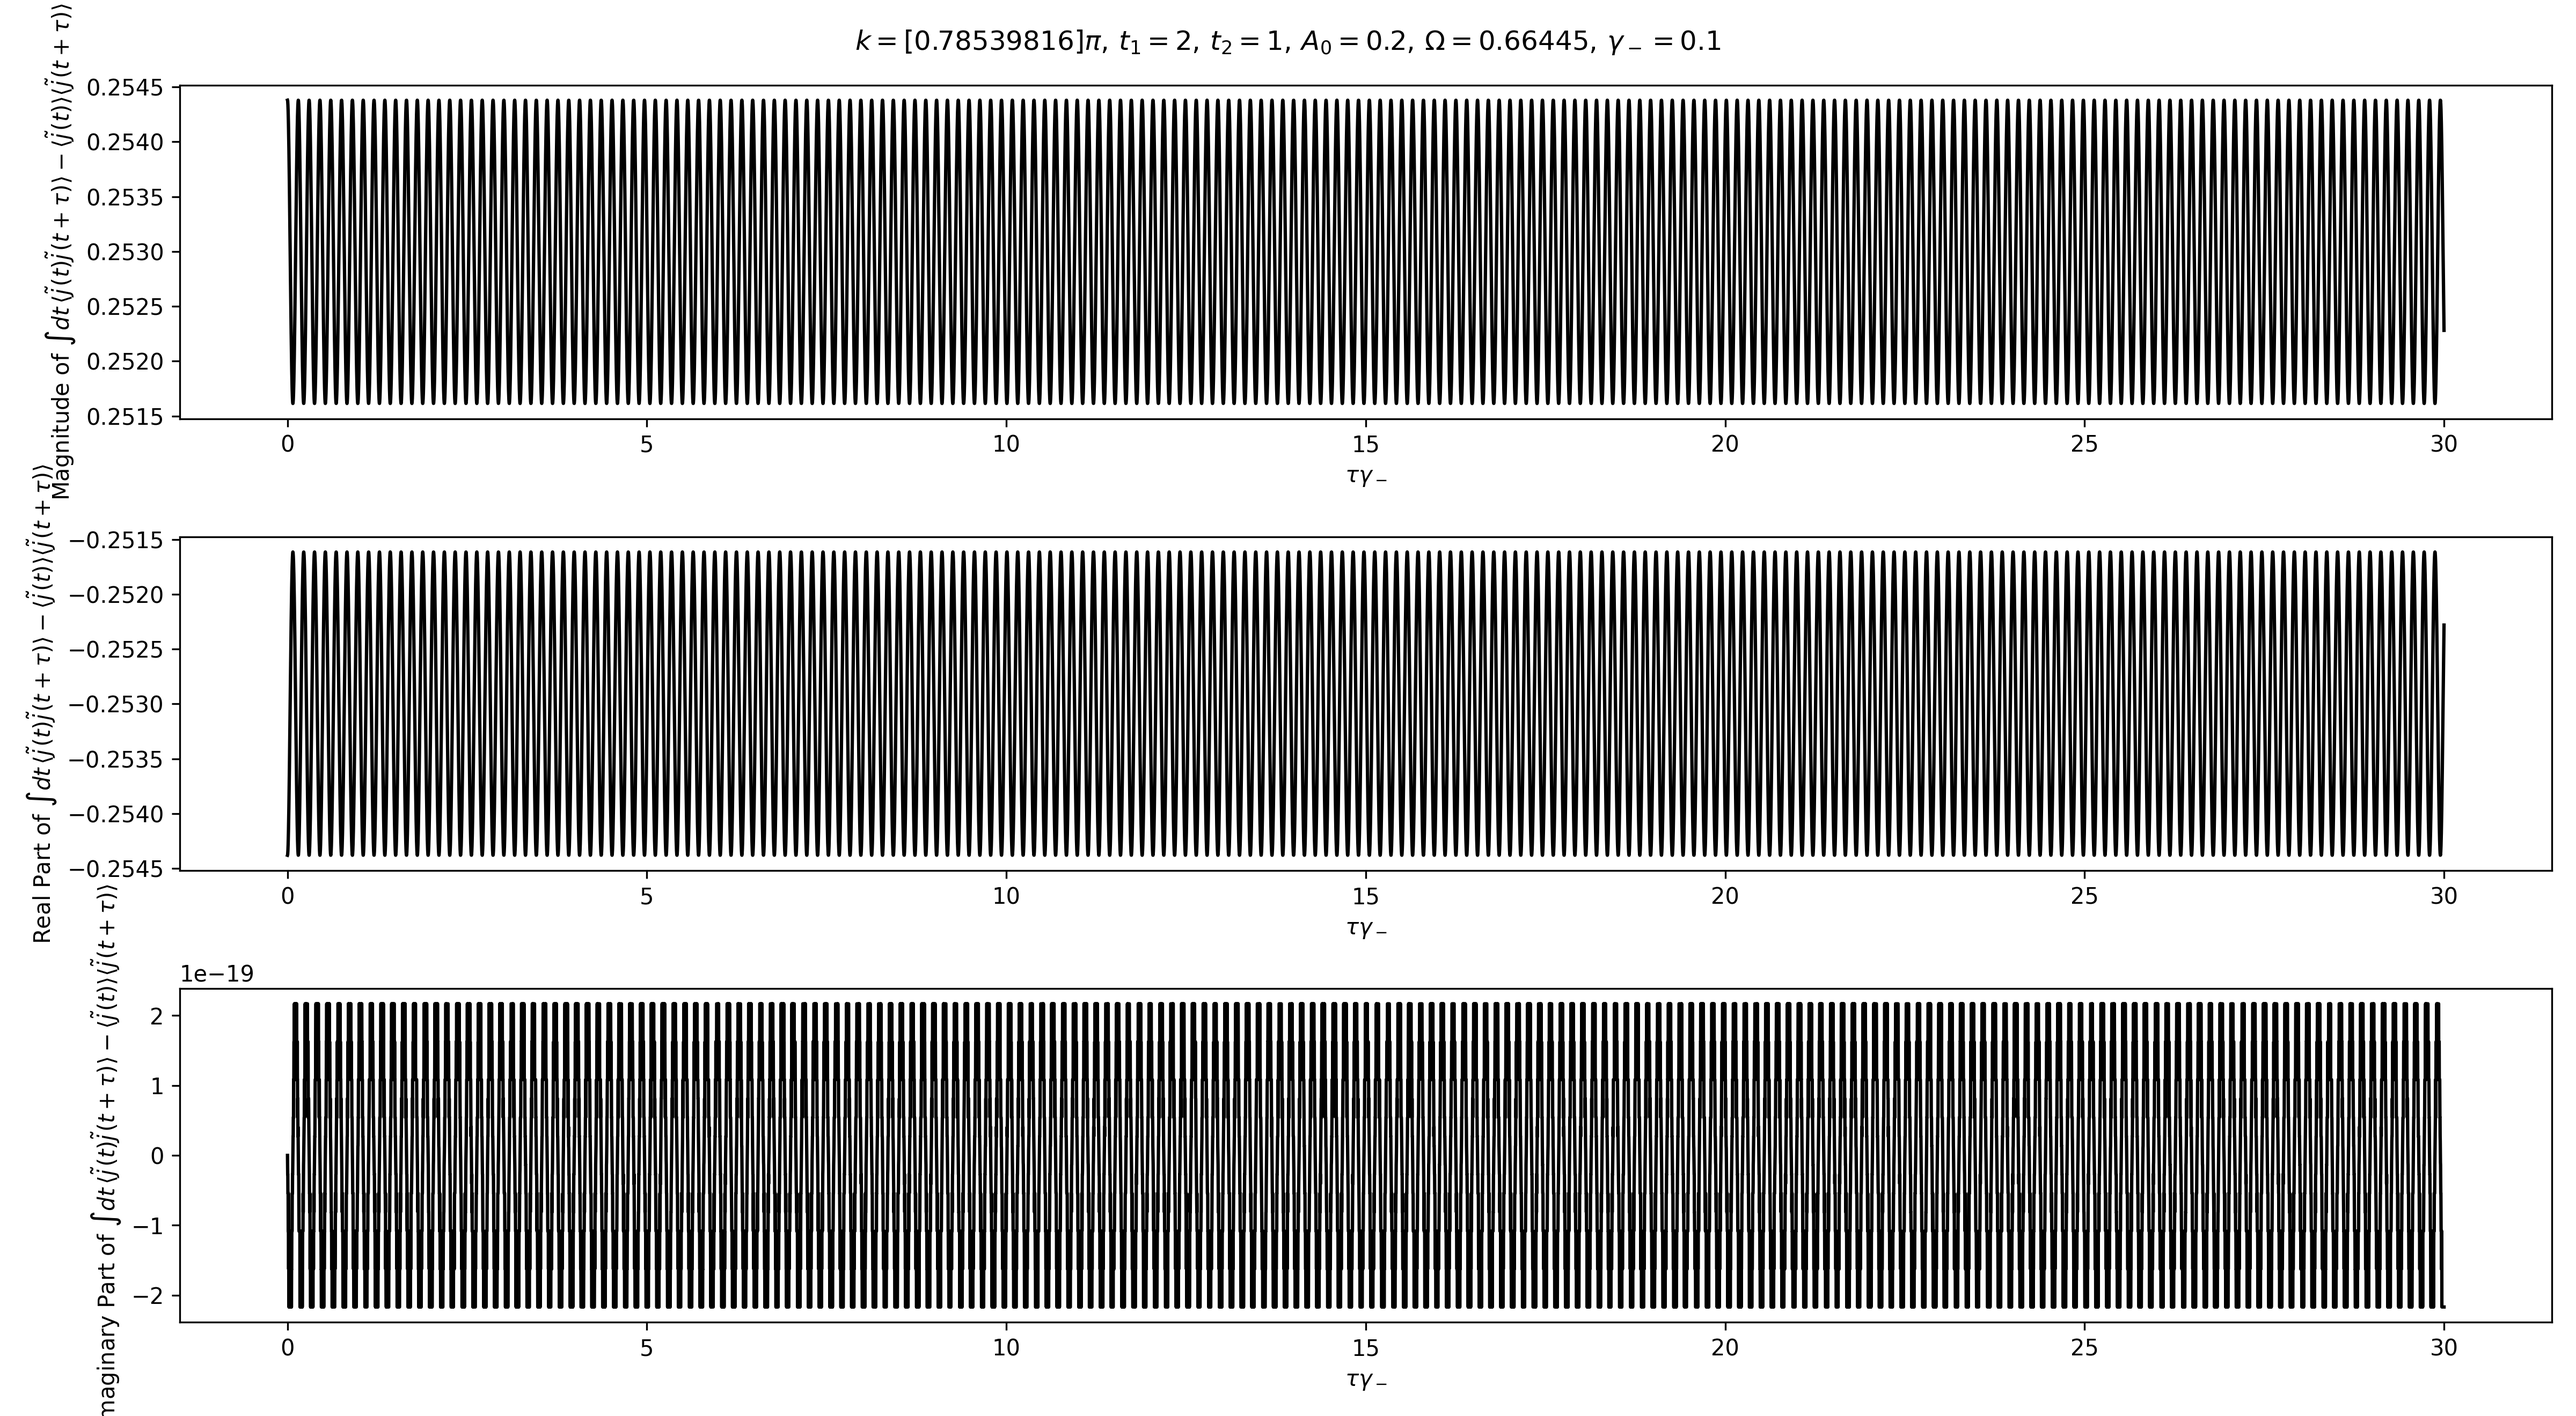
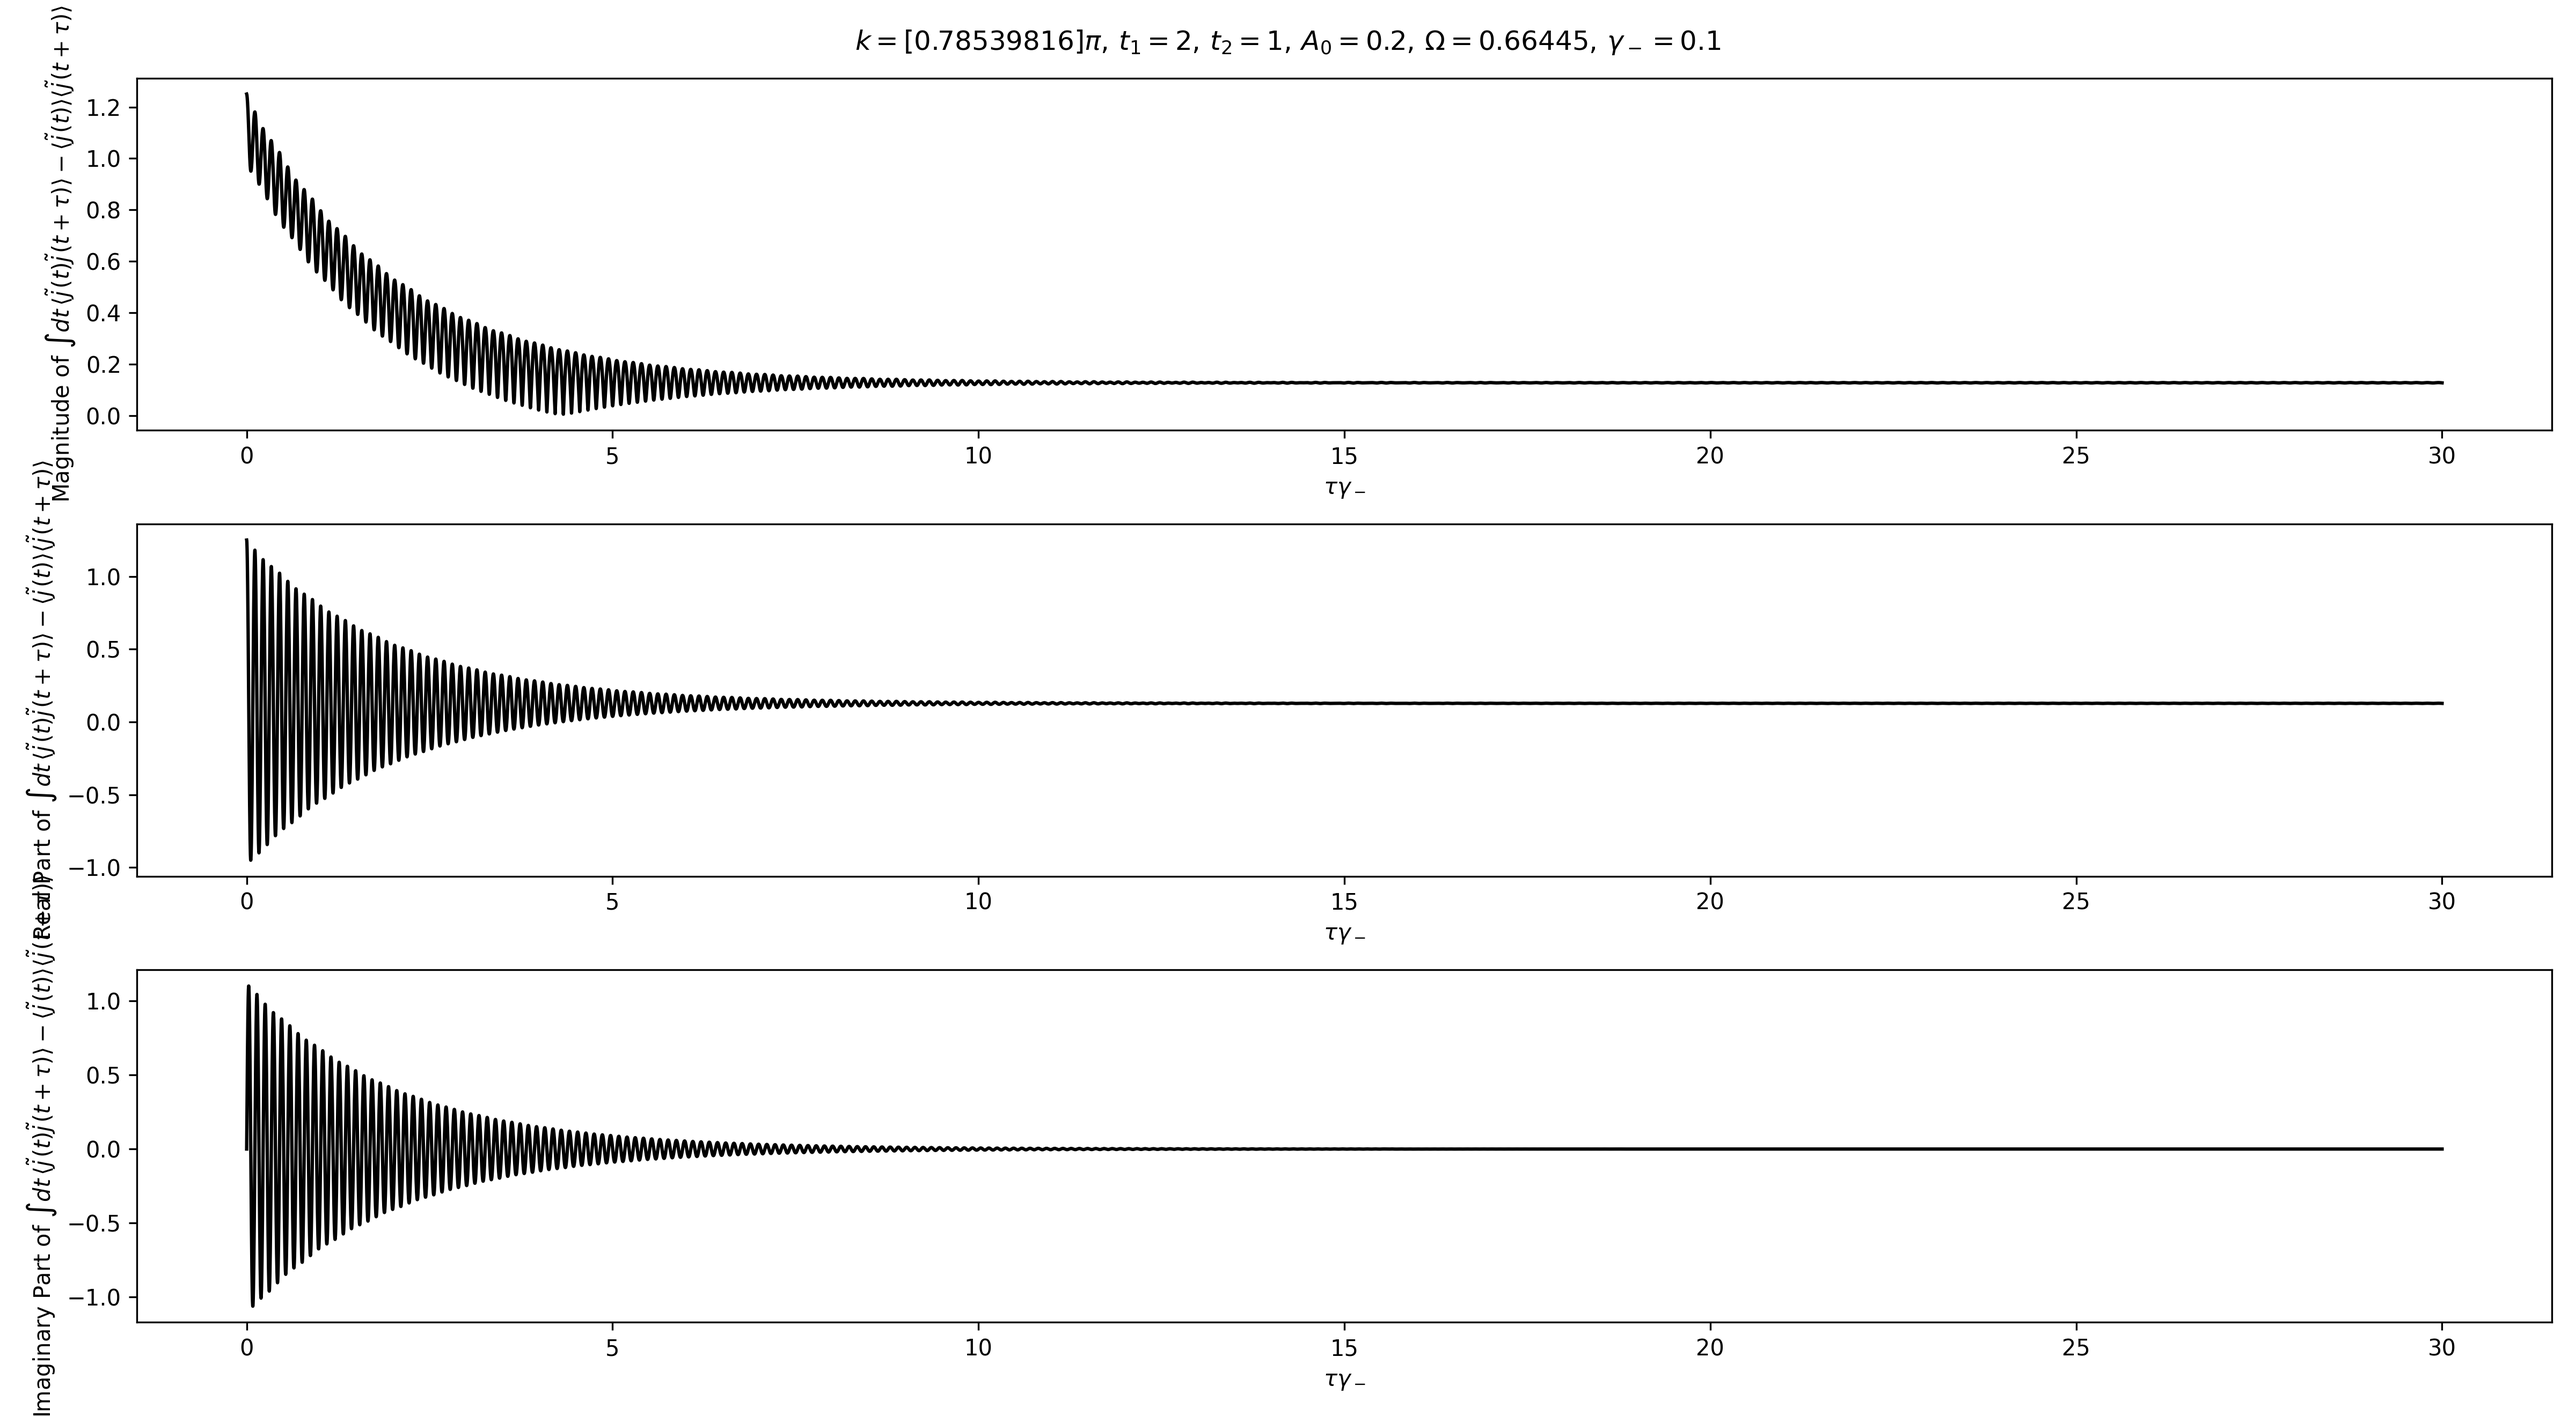
Thought i had a problem with the current connected correlator not decaying, but it was just because with only one point in the taxis we weren't really integrating over a period - increasing the numT to 5 (I assume at least 2 is required) fixed the problem and now it perfectly decays to zero as tau -

diff --git a/SSHModel/SSHVisualiser.py b/SSHModel/SSHVisualiser.py
@@ -349,3 +349,85 @@ class SSHVisualiser:
             plt.savefig("plots/Current Connected Correlator.png", dpi=300)
         if show:
             plt.show()
+
+    def PlotIntegratedDoubleTimeCurrentCorrelation(self, saveFig: bool=False, show: bool=True) -> None:
+        r"""Plots the integrated double-time current correlation, $\int dt\, \langle j(t) j(t + \tau) \rangle$.
+        
+        Parameters
+        ----------
+        saveFigs : bool
+            Determines whether to save the figure or not.
+        show : bool
+            Whether to show the plots or not.
+        """
+
+        currentData = self._sim.CalculateTotalCurrent()
+
+        kValues = self._sim.momentums
+        title = rf"$k = {kValues} \pi,\, t_1 = {self._sim.params.t1},\, t_2 = {self._sim.params.t2},\, A_0 = {self._sim.params.drivingAmplitude},\, \Omega = {self._sim.params.drivingFreq:.5f},\, \gamma_- = {self._sim.params.decayConstant}$"
+
+        currentLabel = r"$\int dt\, \langle \tilde j (t) \tilde j(t + \tau) \rangle$"
+        yLabels = [
+            f"Magnitude of {currentLabel}",
+            f"Real Part of {currentLabel}",
+            f"Imaginary Part of {currentLabel}"
+        ]
+
+        nrows, ncols = 3, 1
+        fig, ax = plt.subplots(nrows, ncols, figsize=(16, 8.8))
+
+        for row in np.arange(nrows):
+            # Plot the numerical solution.
+            ax[row].plot(currentData.tauAxisDim, self._plottingFunctions[row](currentData.integratedDoubleTimeData),
+                        color = "Black")
+    
+            ax[row].set_xlabel(self._tauLabel)
+            ax[row].set_ylabel(yLabels[row])
+
+        plt.suptitle(title)
+        plt.tight_layout()
+        if saveFig:
+            plt.savefig("plots/Integrated Double-Time Current Correlation.png", dpi=300)
+        if show:
+            plt.show()
+
+    def PlotIntegratedDoubleTimeCurrentProduct(self, saveFig: bool=False, show: bool=True) -> None:
+        r"""Plots the integrated double time current product $\int dt\, \langle j(t) \rangle \langle j(t + \tau) \rangle$.
+        
+        Parameters
+        ----------
+        saveFigs : bool
+            Determines whether to save the figure or not.
+        show : bool
+            Whether to show the plots or not.
+        """
+
+        currentData = self._sim.CalculateTotalCurrent()
+
+        kValues = self._sim.momentums
+        title = rf"$k = {kValues} \pi,\, t_1 = {self._sim.params.t1},\, t_2 = {self._sim.params.t2},\, A_0 = {self._sim.params.drivingAmplitude},\, \Omega = {self._sim.params.drivingFreq:.5f},\, \gamma_- = {self._sim.params.decayConstant}$"
+
+        currentLabel = r"$\int dt\, \langle \tilde j(t) \rangle \langle \tilde j(t + \tau) \rangle$"
+        yLabels = [
+            f"Magnitude of {currentLabel}",
+            f"Real Part of {currentLabel}",
+            f"Imaginary Part of {currentLabel}"
+        ]
+
+        nrows, ncols = 3, 1
+        fig, ax = plt.subplots(nrows, ncols, figsize=(16, 8.8))
+
+        for row in np.arange(nrows):
+            # Plot the numerical solution.
+            ax[row].plot(currentData.tauAxisDim, self._plottingFunctions[row](currentData.doubleProductData),
+                        color = "Black")
+    
+            ax[row].set_xlabel(self._tauLabel)
+            ax[row].set_ylabel(yLabels[row])
+
+        plt.suptitle(title)
+        plt.tight_layout()
+        if saveFig:
+            plt.savefig("plots/Integrated Double-Time Current Product.png", dpi=300)
+        if show:
+            plt.show()

diff --git a/SSHModel/CurrentData.py b/SSHModel/CurrentData.py
@@ -13,6 +13,7 @@ class CurrentData:
     freqDomainData: np.ndarray[complex] = None
     fourierExpansion: Fourier = None
     doubleTimeData: np.ndarray[complex] = None
+    integratedDoubleTimeData: np.ndarray[complex] = None
     doubleProductData: np.ndarray[complex] = None
     doubleConnectedCorrelator: np.ndarray[complex] = None
     tauAxisDim: np.ndarray[float] = None
@@ -45,6 +46,7 @@ class CurrentData:
             freqDomainData = self.freqDomainData + other.freqDomainData,
             fourierExpansion = self.fourierExpansion + other.fourierExpansion,
             doubleTimeData = self.doubleTimeData + other.doubleTimeData,
+            integratedDoubleTimeData = self.integratedDoubleTimeData + other.integratedDoubleTimeData,
             doubleProductData = self.doubleProductData + other.doubleProductData,
             doubleConnectedCorrelator = self.doubleConnectedCorrelator + other.doubleConnectedCorrelator,
             tauAxisDim = self.tauAxisDim,

diff --git a/SSHModel/SSH.py b/SSHModel/SSH.py
@@ -434,7 +434,7 @@ class SSH:
         """
         
         # Integrates our double-time correlation function over a single steady-state period w.r.t t.
-        integratedDoubleTimeData = np.trapezoid(
+        self.__currentData.integratedDoubleTimeData = np.trapezoid(
             y = self.__currentData.doubleTimeData,
             x = self.__correlationData.tAxisSec,
             axis = 0
@@ -442,7 +442,7 @@ class SSH:
 
         # Subtracts the (already integrated) double product data from the newly calculated integrated double-time
         # correlation function.
-        self.__currentData.doubleConnectedCorrelator = integratedDoubleTimeData - self.__currentData.doubleProductData
+        self.__currentData.doubleConnectedCorrelator = self.__currentData.integratedDoubleTimeData - self.__currentData.doubleProductData
 
     @property
     def correlationData(self) -> CorrelationData:

diff --git a/SSHModel/SSHSimulation.py b/SSHModel/SSHSimulation.py
@@ -50,13 +50,18 @@ class SSHSimulation:
         initialConditions : ndarray[complex]
             The initial conditions in the eigenbasis of the system.
         numT : int
-            The number of t values within a steady state period to use.
+            The number of t values within a steady state period to use. If <2, will be set to 2
+            so that the integration step for the double-time current correlations actually averages
+            over a steady-state period.
         steadyStateCutoff : float
             The time (in units of $\gamma_-^{-1}$) which we consider the system to be in steady-state.
             i.e. we only consider the Fourier transform of the system after this point.
         debug : bool
             Whether to output debug progress statements.
         """
+
+        if numT < 2:
+            numT = 2
 
         iterable = self.__models.items()
 

diff --git a/1d-ssh-model.py b/1d-ssh-model.py
@@ -5,7 +5,7 @@ import math
 from SSHModel import *
 
 k = np.pi / 4
-numT = 1
+numT = 5
 tauAxis = np.linspace(0, 30, 20000)
 initialConditions = np.array([-0.5, -0.5, 0], dtype=complex)
 
